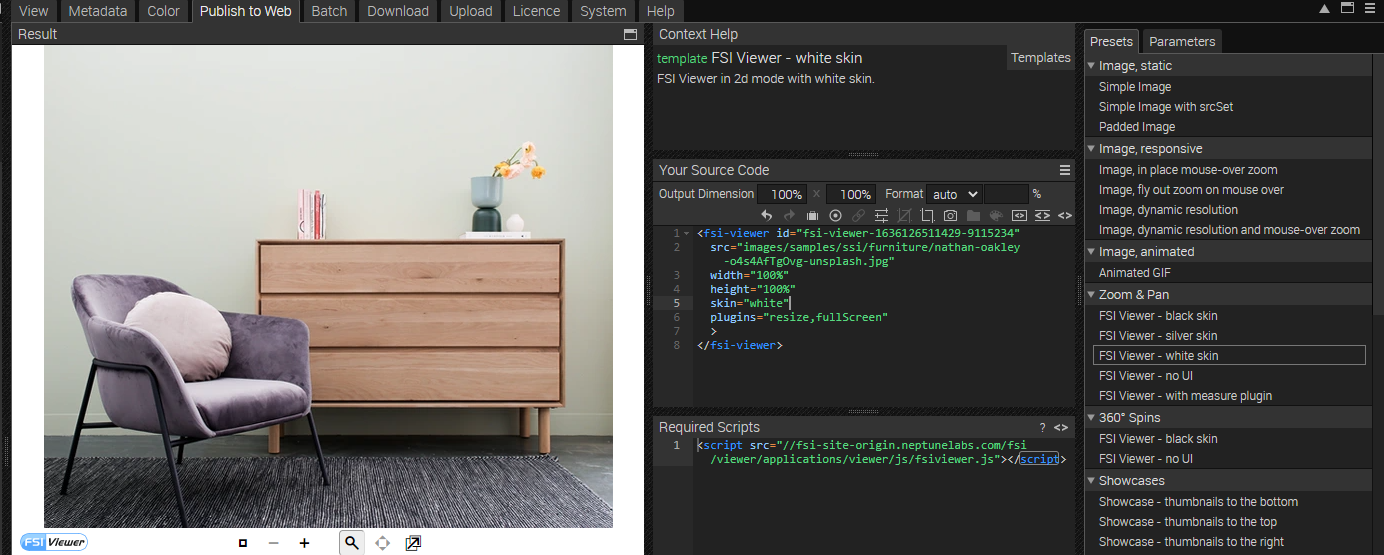
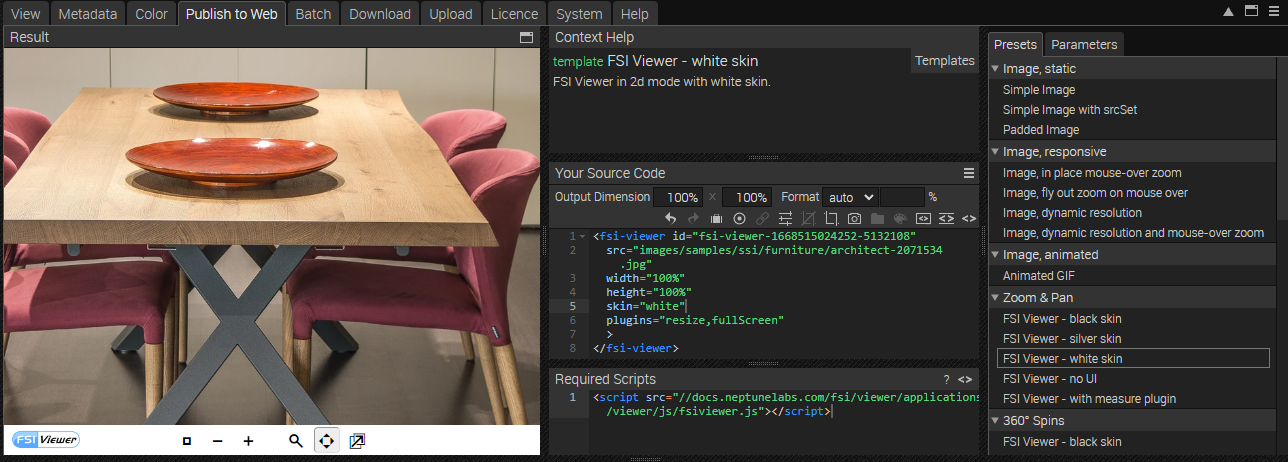
changed images

diff --git a/samples/modal/index.html b/samples/modal/index.html
@@ -30,12 +30,12 @@
   <div class="bg-light d-md-flex flex-md-equal w-100 overflow-hidden">
     <div class="row row-cols-1 row-cols-md-2 g-3 px-5 py-3">
       <div class="col-sm-7" data-bs-toggle="modal" data-bs-target="#exampleModal" >
-        <img id="image" class="img-fluid zoom-image" src="{{{fsi.server}}}/{{{fsi.context}}}/server?type=image&source=images/samples/ssi/furniture/nathan-oakley-o4s4AfTgOvg-unsplash.jpg&width=940" width="940" alt="">
+        <img id="image" class="img-fluid zoom-image" src="{{{fsi.server}}}/{{{fsi.context}}}/server?type=image&source=images/samples/ssi/furniture/architect-2071534.jpg&rect=0.16764,0,0.66471,1&width=840" width="840" alt="">
       </div>
       <div class="col-sm-5 sticky-top mx-auto">
         <div class="p-3 text-left">
           <h2 class="display-5">Harley</h2>
-          <p> Sideboard, Distressed Oak Effect</p>
+          <p>Dining Table, Distressed Oak Effect</p>
           <p>
             <i class="bi bi-star-fill"></i>
             <i class="bi bi-star-fill"></i>
@@ -54,14 +54,17 @@
           </p>
           <div class="row pb-3">
             <div class="col-4">
-              <img class="thumbnail img-fluid" onclick="changeImage('0')" src="{{{fsi.server}}}/{{{fsi.context}}}/server?type=image&source=images/samples/ssi/furniture/nathan-oakley-o4s4AfTgOvg-unsplash.jpg&width=150&rect=0.15187,0,0.84813,1" width="150" alt="">
+              <img class="thumbnail img-fluid" onclick="changeImage('0')" src="{{{fsi.server}}}/{{{fsi.context}}}/server?type=image&source=images/samples/ssi/furniture/architect-2071534.jpg&width=150" width="150"
+                   srcset="{{{fsi.server}}}/{{{fsi.context}}}/server?type=image&source=images/samples/ssi/furniture/architect-2071534.jpg&width=150,
+{{{fsi.server}}}/{{{fsi.context}}}/server?type=image&source=images/samples/ssi/furniture/architect-2071534.jpg&width=300 2x"
+                   alt="">
             </div>
             <div class="col-4" >
-              <img class="thumbnail img-fluid" onclick="changeImage('1')" src="{{{fsi.server}}}/{{{fsi.context}}}/server?type=image&source=images/samples/ssi/furniture/nathan-oakley-jSbBnR22cXc-unsplash.jpg&width=150&rect=0,0.29634,1,0.66709" width="150" alt="">
+              <img class="thumbnail img-fluid" onclick="changeImage('1')" src="{{{fsi.server}}}/{{{fsi.context}}}/server?type=image&source=images/samples/ssi/furniture/architecture-2050197.jpg&width=150" width="150"
+                   srcset="{{{fsi.server}}}/{{{fsi.context}}}/server?type=image&source=images/samples/ssi/furniture/architecture-2050197.jpg&width=150,
+{{{fsi.server}}}/{{{fsi.context}}}/server?type=image&source=images/samples/ssi/furniture/architecture-2050197.jpg&width=300 2x"
+                   alt="">
 
-            </div>
-            <div class="col-4" >
-              <img class="thumbnail img-fluid" onclick="changeImage('2')" src="{{{fsi.server}}}/{{{fsi.context}}}/server?type=image&source=images/samples/ssi/furniture/nathan-oakley-CZysNmnvEJg-unsplash.jpg&width=150&rect=0.25612,0,0.74388,0.99622" width="150" alt="">
             </div>
           </div>
           <div class="btn-group py-3">
@@ -130,9 +133,9 @@
   <div class="row bg-light row-cols-1 row-cols-sm-2 row-cols-md-6 g-3 px-5 py-3 w-100">
     <div class="col">
       <div class="card">
-        <img class="card-img-top img-fluid" src="{{{fsi.server}}}/{{{fsi.context}}}/server?type=image&source=images/samples/ssi/furniture/nathan-oakley-OngbrOmqtzc-unsplash.jpg&rect=0,0.28261,0.98167,0.65489&width=222" width="222"
-             srcset="{{{fsi.server}}}/{{{fsi.context}}}/server?type=image&source=images/samples/ssi/furniture/nathan-oakley-OngbrOmqtzc-unsplash.jpg&rect=0,0.28261,0.98167,0.65489&width=222,
-{{{fsi.server}}}/{{{fsi.context}}}/server?type=image&source=images/samples/ssi/furniture/nathan-oakley-OngbrOmqtzc-unsplash.jpg&rect=0,0.28261,0.98167,0.65489&width=444 2x"
+        <img class="card-img-top img-fluid" src="{{{fsi.server}}}/{{{fsi.context}}}/server?type=image&source=images/samples/ssi/furniture/living-room-7547558.jpg&width=222" width="222"
+             srcset="{{{fsi.server}}}/{{{fsi.context}}}/server?type=image&source=images/samples/ssi/furniture/living-room-7547558.jpg&width=222,
+{{{fsi.server}}}/{{{fsi.context}}}/server?type=image&source=images/samples/ssi/furniture/living-room-7547558.jpg&width=444 2x"
              alt="">
         <div class="card-body">
           <div class="col-6 product-heading">Emma</div>
@@ -148,9 +151,9 @@
     </div>
     <div class="col">
       <div class="card">
-        <img class="card-img-top img-fluid" src="{{{fsi.server}}}/{{{fsi.context}}}/server?type=image&source=images/samples/ssi/furniture/nathan-oakley-CYfb0qyQ6WM-unsplash.jpg&width=222&rect=0.18817,0,0.71387,1&renderer=overlay&overlays=images/samples/ssi/overlays/sale-small.png(88,TL,0,0)" width="222"
-             srcset="{{{fsi.server}}}/{{{fsi.context}}}/server?type=image&source=images/samples/ssi/furniture/nathan-oakley-CYfb0qyQ6WM-unsplash.jpg&width=222&rect=0.18817,0,0.71387,1&renderer=overlay&overlays=images/samples/ssi/overlays/sale-small.png(88,TL,0,0),
-{{{fsi.server}}}/{{{fsi.context}}}/server?type=image&source=images/samples/ssi/furniture/nathan-oakley-CYfb0qyQ6WM-unsplash.jpg&width=444&rect=0.18817,0,0.71387,1&renderer=overlay&overlays=images/samples/ssi/overlays/sale-small.png(88,TL,0,0) 2x"
+        <img class="card-img-top img-fluid" src="{{{fsi.server}}}/{{{fsi.context}}}/server?type=image&source=images/samples/ssi/furniture/furniture-6048139.jpg&width=222&rect=0.02377,0,0.70015,1&renderer=overlay&overlays=images/samples/ssi/overlays/sale-small.png(88,TL,0,0)" width="222"
+             srcset="{{{fsi.server}}}/{{{fsi.context}}}/server?type=image&source=images/samples/ssi/furniture/furniture-6048139.jpg&width=222&rect=0.02377,0,0.70015,1&renderer=overlay&overlays=images/samples/ssi/overlays/sale-small.png(88,TL,0,0),
+{{{fsi.server}}}/{{{fsi.context}}}/server?type=image&source=images/samples/ssi/furniture/furniture-6048139.jpg&width=444&rect=0.02377,0,0.70015,1&renderer=overlay&overlays=images/samples/ssi/overlays/sale-small.png(88,TL,0,0) 2x"
              alt="">
         <div class="card-body">
           <div class="col-6 product-heading">Albion</div>
@@ -166,31 +169,31 @@
     </div>
     <div class="col">
       <div class="card">
-        <img class="card-img-top img-fluid" src="{{{fsi.server}}}/{{{fsi.context}}}/server?type=image&source=images/samples/ssi/furniture/nathan-oakley-boFO5uIUKUU-unsplash.jpg&width=222&rect=0.09327,0,0.66009,1" width="222"
-             srcset="{{{fsi.server}}}/{{{fsi.context}}}/server?type=image&source=images/samples/ssi/furniture/nathan-oakley-boFO5uIUKUU-unsplash.jpg&width=222&rect=0.09327,0,0.66009,1,
-{{{fsi.server}}}/{{{fsi.context}}}/server?type=image&source=images/samples/ssi/furniture/nathan-oakley-boFO5uIUKUU-unsplash.jpg&width=444&rect=0.09327,0,0.66009,1 2x"
+        <img class="card-img-top img-fluid" src="{{{fsi.server}}}/{{{fsi.context}}}/server?type=image&source=images/samples/ssi/furniture/flowerpots-2754775.jpg&width=222&rect=0.00133,0.13253,0.99867,0.82475" width="222"
+             srcset="{{{fsi.server}}}/{{{fsi.context}}}/server?type=image&source=images/samples/ssi/furniture/flowerpots-2754775.jpg&width=222&rect=0.00133,0.13253,0.99867,0.82475,
+{{{fsi.server}}}/{{{fsi.context}}}/server?type=image&source=images/samples/ssi/furniture/flowerpots-2754775.jpg&width=444&rect=0.00133,0.13253,0.99867,0.82475 2x"
              alt="">
         <div class="card-body">
           <div class="col-6 product-heading">Maral</div>
-          <p class="product-text">3 Seater Sofa, White Linen</p>
+          <p class="product-text">Chair, Blue Velvet</p>
           <div class="d-flex justify-content-between align-items-center">
             <div class="btn-group">
               <button type="button" class="btn btn-sm btn-outline-secondary">View</button>
             </div>
-            <small class="text-muted">$599</small>
+            <small class="text-muted">$199</small>
           </div>
         </div>
       </div>
     </div>
     <div class="col">
       <div class="card">
-        <img class="card-img-top img-fluid" src="{{{fsi.server}}}/{{{fsi.context}}}/server?type=image&source=images/samples/ssi/furniture/nathan-oakley-kfIN3cGA5xE-unsplash.jpg&width=222&rect=0.04975,0,0.90796,0.99185&renderer=overlay&overlays=images/samples/ssi/overlays/sale-small.png(88,TL,0,0)" width="222"
-             srcset="{{{fsi.server}}}/{{{fsi.context}}}/server?type=image&source=images/samples/ssi/furniture/nathan-oakley-kfIN3cGA5xE-unsplash.jpg&width=222&rect=0.04975,0,0.90796,0.99185&renderer=overlay&overlays=images/samples/ssi/overlays/sale-small.png(88,TL,0,0),
-{{{fsi.server}}}/{{{fsi.context}}}/server?type=image&source=images/samples/ssi/furniture/nathan-oakley-kfIN3cGA5xE-unsplash.jpg&width=444&rect=0.04975,0,0.90796,0.99185&renderer=overlay&overlays=images/samples/ssi/overlays/sale-small.png(88,TL,0,0) 2x"
+        <img class="card-img-top img-fluid" src="{{{fsi.server}}}/{{{fsi.context}}}/server?type=image&source=images/samples/ssi/furniture/home-7531461_1920.jpg&width=222&rect=0,0.04381,0.94524,0.94524&renderer=overlay&overlays=images/samples/ssi/overlays/sale-small.png(88,TL,0,0)" width="222"
+             srcset="{{{fsi.server}}}/{{{fsi.context}}}/server?type=image&source=images/samples/ssi/furniture/home-7531461_1920.jpg&width=222&rect=0,0.04381,0.94524,0.94524&renderer=overlay&overlays=images/samples/ssi/overlays/sale-small.png(88,TL,0,0),
+{{{fsi.server}}}/{{{fsi.context}}}/server?type=image&source=images/samples/ssi/furniture/home-7531461_1920.jpg&width=444&rect=0,0.04381,0.94524,0.94524&renderer=overlay&overlays=images/samples/ssi/overlays/sale-small.png(88,TL,0,0) 2x"
              alt="">
         <div class="card-body">
           <div class="col-6 product-heading">Harlow</div>
-          <p class="product-text">King Size Bed, Pine Wood</p>
+          <p class="product-text">Shelving Unit, Pine Wood</p>
           <div class="d-flex justify-content-between align-items-center">
             <div class="btn-group">
               <button type="button" class="btn btn-sm btn-outline-secondary">View</button>
@@ -202,9 +205,9 @@
     </div>
     <div class="col">
       <div class="card">
-        <img class="card-img-top img-fluid" src="{{{fsi.server}}}/{{{fsi.context}}}/server?type=image&source=images/samples/ssi/furniture/nathan-oakley-ReWaWXpLnP8-unsplash.jpg&width=222&rect=0.17663,0.00951,0.66033,0.99049" width="222"
-             srcset="{{{fsi.server}}}/{{{fsi.context}}}/server?type=image&source=images/samples/ssi/furniture/nathan-oakley-ReWaWXpLnP8-unsplash.jpg&width=222&rect=0.17663,0.00951,0.66033,0.99049,
-{{{fsi.server}}}/{{{fsi.context}}}/server?type=image&source=images/samples/ssi/furniture/nathan-oakley-ReWaWXpLnP8-unsplash.jpg&width=444&rect=0.17663,0.00951,0.66033,0.99049 2x"
+        <img class="card-img-top img-fluid" src="{{{fsi.server}}}/{{{fsi.context}}}/server?type=image&source=images/samples/ssi/furniture/home-7567164.jpg&width=222&rect=0.02957,0.04381,0.94633,0.94633" width="222"
+             srcset="{{{fsi.server}}}/{{{fsi.context}}}/server?type=image&source=images/samples/ssi/furniture/home-7567164.jpg&width=222&rect=0.02957,0.04381,0.94633,0.94633,
+{{{fsi.server}}}/{{{fsi.context}}}/server?type=image&source=images/samples/ssi/furniture/home-7567164.jpg&width=444&rect=0.02957,0.04381,0.94633,0.94633 2x"
              alt="">
         <div class="card-body">
           <div class="col-6 product-heading">Hopper</div>
@@ -220,13 +223,13 @@
     </div>
     <div class="col">
       <div class="card">
-        <img class="card-img-top img-fluid" src="{{{fsi.server}}}/{{{fsi.context}}}/server?type=image&source=images/samples/ssi/furniture/nathan-oakley-S_jZAOH1Zwg-unsplash.jpg&width=222&rect=0,0.33288,1,0.66712" width="222"
-             srcset="{{{fsi.server}}}/{{{fsi.context}}}/server?type=image&source=images/samples/ssi/furniture/nathan-oakley-S_jZAOH1Zwg-unsplash.jpg&width=222&rect=0,0.33288,1,0.66712,
-{{{fsi.server}}}/{{{fsi.context}}}/server?type=image&source=images/samples/ssi/furniture/nathan-oakley-S_jZAOH1Zwg-unsplash.jpg&width=444&rect=0,0.33288,1,0.66712 2x"
+        <img class="card-img-top img-fluid" src="{{{fsi.server}}}/{{{fsi.context}}}/server?type=image&source=images/samples/ssi/furniture/home-7531464.jpg&width=222" width="222"
+             srcset="{{{fsi.server}}}/{{{fsi.context}}}/server?type=image&source=images/samples/ssi/furniture/home-7531464.jpg&width=222,
+{{{fsi.server}}}/{{{fsi.context}}}/server?type=image&source=images/samples/ssi/furniture/nhome-7531464.jpg&width=444 2x"
              alt="">
         <div class="card-body">
           <div class="col-6 product-heading">Abbey</div>
-          <p class="product-text">Cabinet, Charcoal Oak Wood</p>
+          <p class="product-text">Coffee Table, Mango Wood</p>
           <div class="d-flex justify-content-between align-items-center">
             <div class="btn-group">
               <button type="button" class="btn btn-sm btn-outline-secondary">View</button>
@@ -248,7 +251,7 @@
           <fsi-viewer adaptiveUISize="false" id="img-viewer"
                       plugins="fullScreen,resize"
                       skin="white" width="1100px" height="700px"
-                      src="images/samples/ssi/furniture/nathan-oakley-o4s4AfTgOvg-unsplash.jpg"
+                      src="images/samples/ssi/furniture/architect-2071534.jpg"
                       debug="true">
           </fsi-viewer>
         </div>
@@ -295,11 +298,6 @@
           <li><a class="link-secondary" href="#">Team</a></li>
           <li><a class="link-secondary" href="#">Locations</a></li>
         </ul>
-      </div>
-    </div>
-    <div class="row">
-      <div class="credit">
-        Photos by <a class="link-secondary" href="https://unsplash.com/@nathanrjliving?utm_source=unsplash&utm_medium=referral&utm_content=creditCopyText">Nathan Oakley</a> on <a class="link-secondary" href="https://unsplash.com/@nathanrjliving?utm_source=unsplash&utm_medium=referral&utm_content=creditCopyText">Unsplash</a>
       </div>
     </div>
   </div>

diff --git a/samples/modal/modal.js b/samples/modal/modal.js
@@ -4,20 +4,16 @@ function changeImage(buttonID) {
   let curImage = document.getElementById('image');
   switch (buttonID) {
     case "0":
-      img =  '{{{fsi.server}}}/{{{fsi.context}}}/server?type=image&source=images/samples/ssi/furniture/nathan-oakley-o4s4AfTgOvg-unsplash.jpg&width=940';
-      src = 'images/samples/ssi/furniture/nathan-oakley-o4s4AfTgOvg-unsplash.jpg';
+      img =  '{{{fsi.server}}}/{{{fsi.context}}}/server?type=image&source=images/samples/ssi/furniture/architect-2071534.jpg&rect=0.16764,0,0.66471,1&width=840';
+      src = 'images/samples/ssi/furniture/architect-2071534.jpg';
       break
     case "1":
-      img = '{{{fsi.server}}}/{{{fsi.context}}}/server?type=image&source=images/samples/ssi/furniture/nathan-oakley-jSbBnR22cXc-unsplash.jpg&width=940&rect=0,0.29634,1,0.66709';
-      src = 'images/samples/ssi/furniture/nathan-oakley-jSbBnR22cXc-unsplash.jpg';
-      break
-    case "2":
-      img = '{{{fsi.server}}}/{{{fsi.context}}}/server?type=image&source=images/samples/ssi/furniture/nathan-oakley-CZysNmnvEJg-unsplash.jpg&width=940';
-      src = 'images/samples/ssi/furniture/nathan-oakley-CZysNmnvEJg-unsplash.jpg';
+      img = '{{{fsi.server}}}/{{{fsi.context}}}/server?type=image&source=images/samples/ssi/furniture/architecture-2050197.jpg&rect=0.18441,0,0.66471,1&width=840';
+      src = 'images/samples/ssi/furniture/architecture-2050197.jpg';
       break
     default:
-      img = '{{{fsi.server}}}/{{{fsi.context}}}/server?type=image&source=images/samples/ssi/furniture/nathan-oakley-o4s4AfTgOvg-unsplash.jpg&width=940';
-      src = 'images/samples/ssi/furniture/nathan-oakley-o4s4AfTgOvg-unsplash.jpg';
+      img = '{{{fsi.server}}}/{{{fsi.context}}}/server?type=image&source=images/samples/ssi/furniture/architect-2071534.jpg&rect=0.16764,0,0.66471,1&width=840';
+      src = 'images/samples/ssi/furniture/architect-2071534.jpg';
   }
   curImage.src = img;
   document.getElementsByTagName("fsi-viewer")[0].changeConfig(undefined, {imagesrc: src});
